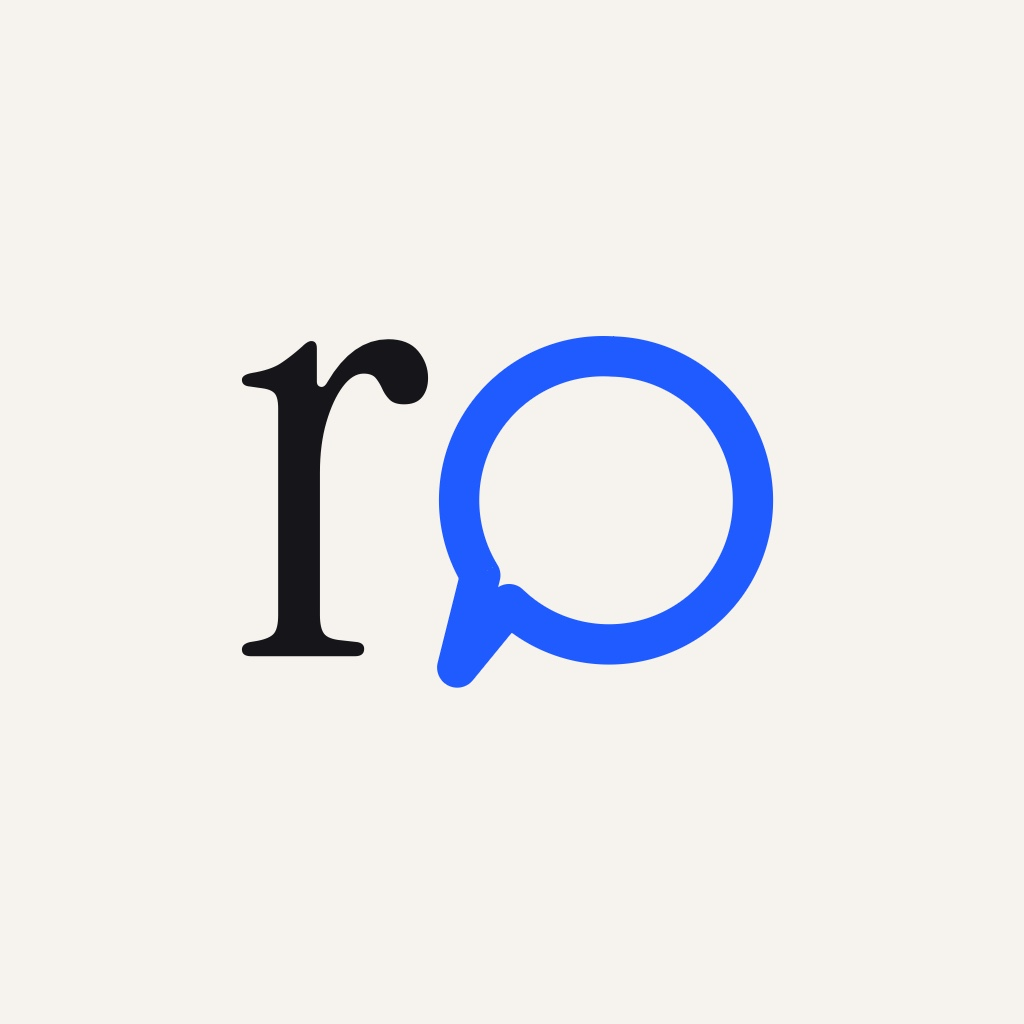
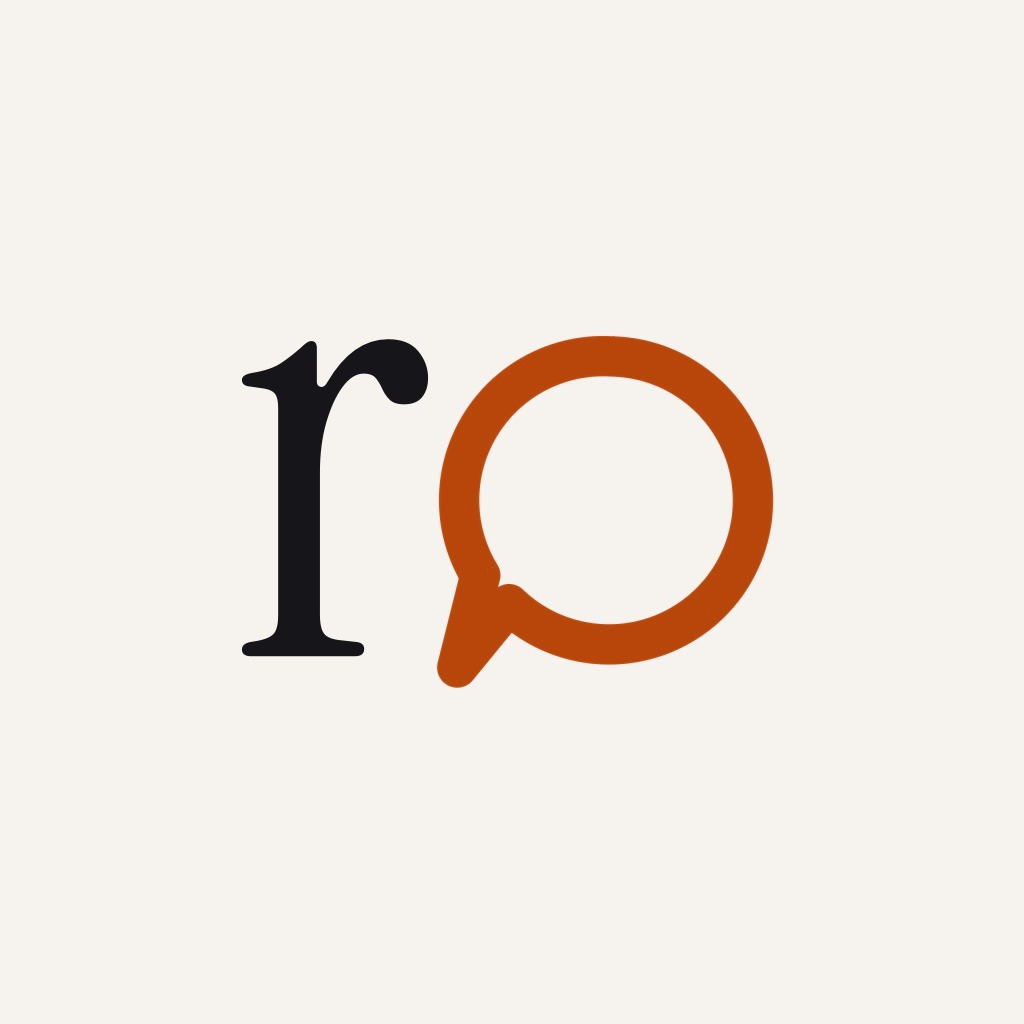
contact card photo: bubble brand orange #B8460B + one-off owner-only resend script

Changed region(s): [[0.4062, 0.3125, 0.7812, 0.6875]]

diff --git a/test/contact-card-orange.test.js b/test/contact-card-orange.test.js
@@ -1,0 +1,90 @@
+// The contact card's photo went brand orange (10-25), and the owner — only the owner — got the new
+// card once (scripts/card-to-owner.js). Temp database, stubbed sender, no network, no model:
+//
+//   is the card's photo the orange one, never the old blue one?
+//   does the vCard carry that photo?
+//   does the one-off send reach only the owner's dm:owner thread, once, and refuse without --confirm?
+import { test, beforeEach, after } from "node:test";
+import assert from "node:assert/strict";
+import { createHash } from "node:crypto";
+import { mkdtempSync, readFileSync, rmSync, existsSync } from "node:fs";
+import { tmpdir } from "node:os";
+import { join } from "node:path";
+import { execFileSync } from "node:child_process";
+
+const dir = mkdtempSync(join(tmpdir(), "reason-card-orange-"));
+process.env.REASON_DATA_DIR = dir;
+process.env.REASON_DB_PATH = join(dir, "reason.db");
+process.env.REASON_PUBLIC_URL = "https://reason.example.test";
+process.env.REASON_OWNER_NUMBER = "+12025551234";
+process.env.REASON_MASTER_NUMBER = "+12025551234";
+
+const db = await import("../src/db.js");
+const { vcard } = await import("../src/contact.js");
+const S = await import("../scripts/card-to-owner.js");
+
+const PHOTO = new URL("../assets/reason-contact.jpg", import.meta.url);
+// sha256 of assets/reason-contact.jpg. Orange = the bubble at #B8460B on the same paper and "r".
+// If the photo is redrawn on purpose, update ORANGE; BLUE must never come back.
[2 lines of base64/hex data omitted]
+
+after(() => rmSync(dir, { recursive: true, force: true }));
+beforeEach(() => {
+  db.db.exec("DELETE FROM accounts;");
+  rmSync(S.markerFor(S.SEND_ID, dir), { force: true });
+});
+
+function stubRouter() {
+  const sent = [];
+  return {
+    sent,
+    get: () => ({ status: () => ({ number: "+16562167455" }) }),
+    sendMediaUrl: async (m) => { sent.push(m); return { ok: true, delivered: { message_id: `m${sent.length}` } }; },
+  };
+}
+
+test("the card's photo is the brand-orange one, never the old blue", () => {
+  const bytes = readFileSync(PHOTO);
+  const sha = createHash("sha256").update(bytes).digest("hex");
+  assert.notEqual(sha, BLUE, "the blue-bubble photo is back");
+  assert.equal(sha, ORANGE);
+  assert.equal(bytes[0], 0xff); assert.equal(bytes[1], 0xd8, "still a JPEG (iOS saves JPEG card photos reliably)");
+  assert.ok(vcard({ number: "+16562167455" }).replace(/\r\n /g, "").includes(bytes.toString("base64")), "the vCard carries this photo");
+});
+
+test("the one-off send reaches only the owner's thread, once", async () => {
+  db.upsertAccount({ conversationId: "dm:owner", channel: "sendblue", address: "+12025551234", name: "Owner" });
+  db.db.prepare("UPDATE accounts SET is_operator = 1 WHERE conversation_id = 'dm:owner'").run();
+  db.upsertAccount({ conversationId: "dm:sendblue:+14155550001", channel: "sendblue", address: "+14155550001", name: "Someone" });
+  const router = stubRouter();
+  const marker = S.markerFor(S.SEND_ID, dir);
+  const r = await S.sendCardToOwner({ router, marker });
+  assert.equal(r.outcome, "sent");
+  assert.equal(r.conversationId, "dm:owner");
+  assert.deepEqual(router.sent.map(m => m.to), ["+12025551234"]);
+  assert.equal(router.sent[0].mediaUrl, "https://reason.example.test/reason.vcf");
+  assert.ok(existsSync(marker));
+  assert.equal((await S.sendCardToOwner({ router, marker })).outcome, "already");
+  assert.equal(router.sent.length, 1, "a rerun sends nothing");
+});
+
+test("no owner, or two owner numbers: it refuses and sends nothing", async () => {
+  const router = stubRouter();
+  await assert.rejects(S.sendCardToOwner({ router, marker: S.markerFor(S.SEND_ID, dir) }), /exactly one owner/);
+  for (const n of ["+12025551234", "+12025559999"]) {
+    db.upsertAccount({ conversationId: `dm:sendblue:${n}`, channel: "sendblue", address: n, name: "x" });
+  }
+  db.db.prepare("UPDATE accounts SET is_operator = 1").run();
+  await assert.rejects(S.sendCardToOwner({ router, marker: S.markerFor(S.SEND_ID, dir) }), /exactly one owner/);
+  assert.equal(router.sent.length, 0);
+});
+
+test("the CLI refuses without --confirm", () => {
+  let code = 0, err = "";
+  try {
+    execFileSync(process.execPath, [new URL("../scripts/card-to-owner.js", import.meta.url).pathname], { env: { ...process.env }, stdio: "pipe" });
+  } catch (e) { code = e.status; err = String(e.stderr); }
+  assert.equal(code, 2);
+  assert.match(err, /--confirm=card-orange-1025/);
+});

diff --git a/scripts/card-to-owner.js b/scripts/card-to-owner.js
@@ -1,0 +1,59 @@
+// The contact card, once, to the owner's own thread — and nobody else.
+//
+// Owner-only CLI run on the server (`/opt/reason`), for when the card itself changes (10-25: the
+// photo's bubble went brand orange) and the owner wants to see the new one on his phone. Everybody
+// else keeps the card they already saved; new people get the new one from offerContactCard.
+//
+//   sudo -u reason node --env-file=.env scripts/card-to-owner.js --confirm=card-orange-1025
+//
+// Same send as offerContactCard (router.sendMediaUrl with the live /reason.vcf address). The owner
+// is announce.js's ownerRecipient(): exactly one owner number, dm:owner preferred, or it refuses.
+// A marker file in the data directory makes a second run send nothing.
+import { existsSync, writeFileSync } from "node:fs";
+import { join } from "node:path";
+import { pathToFileURL } from "node:url";
+import { config } from "../src/config.js";
+import { contactCardUrl, lineNumber } from "../src/contact.js";
+import { ownerRecipient } from "./announce.js";
+
+export const SEND_ID = "card-orange-1025";
+export const LINE = "my contact card has a new look — here it is. save it over the old one if you like.";
+
+export const markerFor = (id, dataDir = config.dataDir) => join(dataDir, `card-to-owner-${id}.sent`);
+
+export async function sendCardToOwner({ id = SEND_ID, router, marker = markerFor(id) }) {
+  if (existsSync(marker)) return { outcome: "already" };
+  const url = contactCardUrl();
+  if (!url) return { outcome: "failed", why: "REASON_PUBLIC_URL is not set" };
+  const r = ownerRecipient();
+  if (!lineNumber(router, r.channel)) return { outcome: "failed", why: `${r.channel} reports no line number` };
+  let res;
+  try {
+    res = await router.sendMediaUrl({ channel: r.channel, to: r.address, text: LINE, mediaUrl: url });
+  } catch (e) {
+    res = { ok: false, error: (e?.message ?? String(e)).split("\n")[0] };
+  }
+  if (!res?.ok) return { outcome: "failed", why: res?.error ?? "unknown" };
+  writeFileSync(marker, `${new Date().toISOString()} ${res.delivered?.message_id ?? ""}\n`);
+  return { outcome: "sent", conversationId: r.conversationId, messageId: !!res.delivered?.message_id };
+}
+
+async function main() {
+  if (!process.argv.includes(`--confirm=${SEND_ID}`)) {
+    console.error(`refusing to send: add --confirm=${SEND_ID} to say you mean it`);
+    process.exitCode = 2;
+    return;
+  }
+  const { Router } = await import("../src/channels/router.js");
+  const { SendblueChannel } = await import("../src/channels/sendblue.js");
+  const { LinqChannel } = await import("../src/channels/linq.js");
+  const router = new Router({ log: () => {} });
+  router.register(new SendblueChannel());
+  router.register(new LinqChannel());
+  const r = await sendCardToOwner({ router });
+  console.log(`card to owner: ${r.outcome}${r.conversationId ? ` (${r.conversationId})` : ""}${r.messageId ? ", Sendblue message id recorded" : ""}${r.why ? ` — ${r.why}` : ""}`);
+}
+
+if (process.argv[1] && import.meta.url === pathToFileURL(process.argv[1]).href) {
+  main().catch((e) => { console.error((e?.message ?? String(e)).split("\n")[0]); process.exitCode = 1; });
+}

diff --git a/.agents/skills/verify-reason/features/README.md b/.agents/skills/verify-reason/features/README.md
@@ -18,6 +18,7 @@ not the baseline. **The live instance is Hetzner** (`bin/doctor.sh live`), never
 | AgentCard (a card in a vault, buying things with it; the purchase record, `purchases_recent`, cancel reasons, tokens sealed at rest) | [agentcard.md](agentcard.md) | `node --test test/agentcard.test.js test/purchasesnote.test.js`; cage proves `not_configured` and `purchases_recent`; Hetzner read-only, never an AgentCard call |
 | Flight booking (DARK behind `REASON_FLIGHT_BOOKING`; `owner` = the owner's conversation only: fresh quote, traveler read-back, the cart's own numbers, a yes pinned to cart + travelers, never "booked" without a ticket) | [flight-booking.md](flight-booking.md) | `node --test test/flight-booking.test.js`; by hand only: `scripts/flight-booking-smoke.mjs` (sandbox) |
 | Shopping around it (verified offers, the figures check on replies, the handoff, price watches) | [shopping.md](shopping.md) | `node --test test/shopping-*.test.js test/deal-watch.test.js`; cage: `offer_check` → `shop_handoff` → `deal_watch_set` after `offers.beginTurn` |
+| Contact card photo (orange bubble #B8460B, `assets/reason-contact.jpg`) + one-off owner-only resend `scripts/card-to-owner.js --confirm=card-orange-1025` (marker file in data dir; nobody else) | [line-change.md](line-change.md) | `node --test test/contact-card-orange.test.js`; cage: `GET /reason.vcf`, decode PHOTO, sha must match the test's ORANGE |
 | The new number (contact card, once, for people who texted the old 808 line) | [line-change.md](line-change.md) | `node --test test/linechange.test.js`; cage: seeded pre-cutoff inbound + `bin/inbound.sh -` as that number |
 | Meal nutrition estimation (snap your plate) | [meal-nutrition.md](meal-nutrition.md) | No `test/meal.test.js` yet; caged inbound + `bin/peek.sh sql` |
 | Subscriptions (find recurring charges, cancel on a yes, renewal watch) | [subscriptions.md](subscriptions.md) | `node --test test/subscriptions.test.js` (52); flow test needs a model |

diff --git a/.agents/skills/verify-reason/SKILL.md b/.agents/skills/verify-reason/SKILL.md
@@ -372,6 +372,8 @@ ring-time cache warm-up — prove latency on Hetzner, not here. See
 
 ### Baseline — 3,665 pass, **0 failures** after busy form buttons (2026-10-25)
 
+Contact card photo brand orange + `scripts/card-to-owner.js` over `780e91a`: **3,791 tests, 3,669 passing, 0 failing, 122 skipped** (+4, `test/contact-card-orange.test.js` — pins the photo sha; the blue one must never return). Before that:
+
 Busy form buttons over `17e6843`: **3,787 tests, 3,665 passing, 0 failing, 122 skipped** (+4, `test/pages-busy-buttons.test.js`). Before that:
 
 Light pages on the site's paper over `7e81701`: **3,783 tests, 3,661 passing, 0 failing, 122 skipped** (+3, `test/pages-paper.test.js`; `test/pages-phone.test.js` table-fade "clean" now relative to the paper card). Before that:
